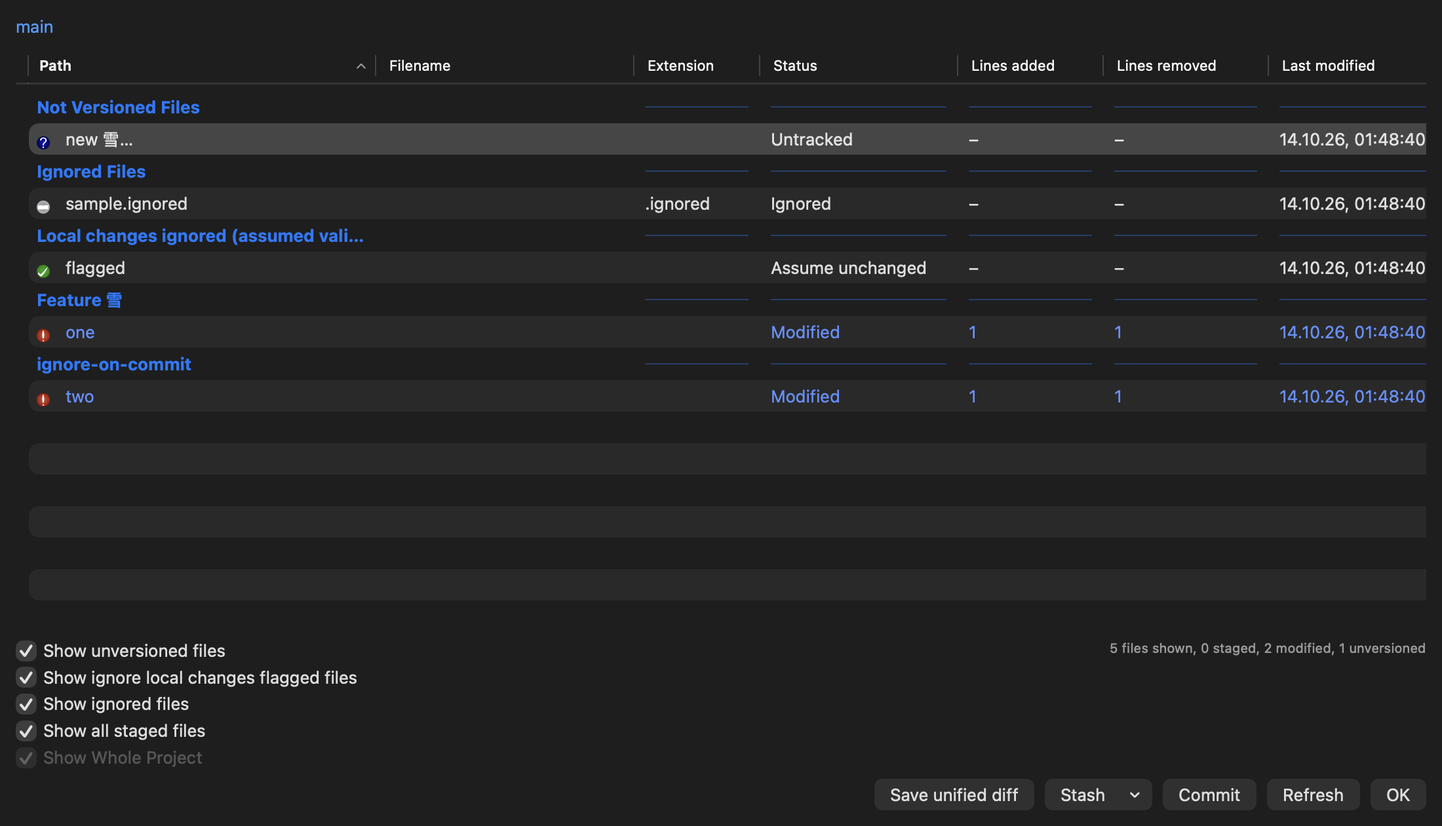
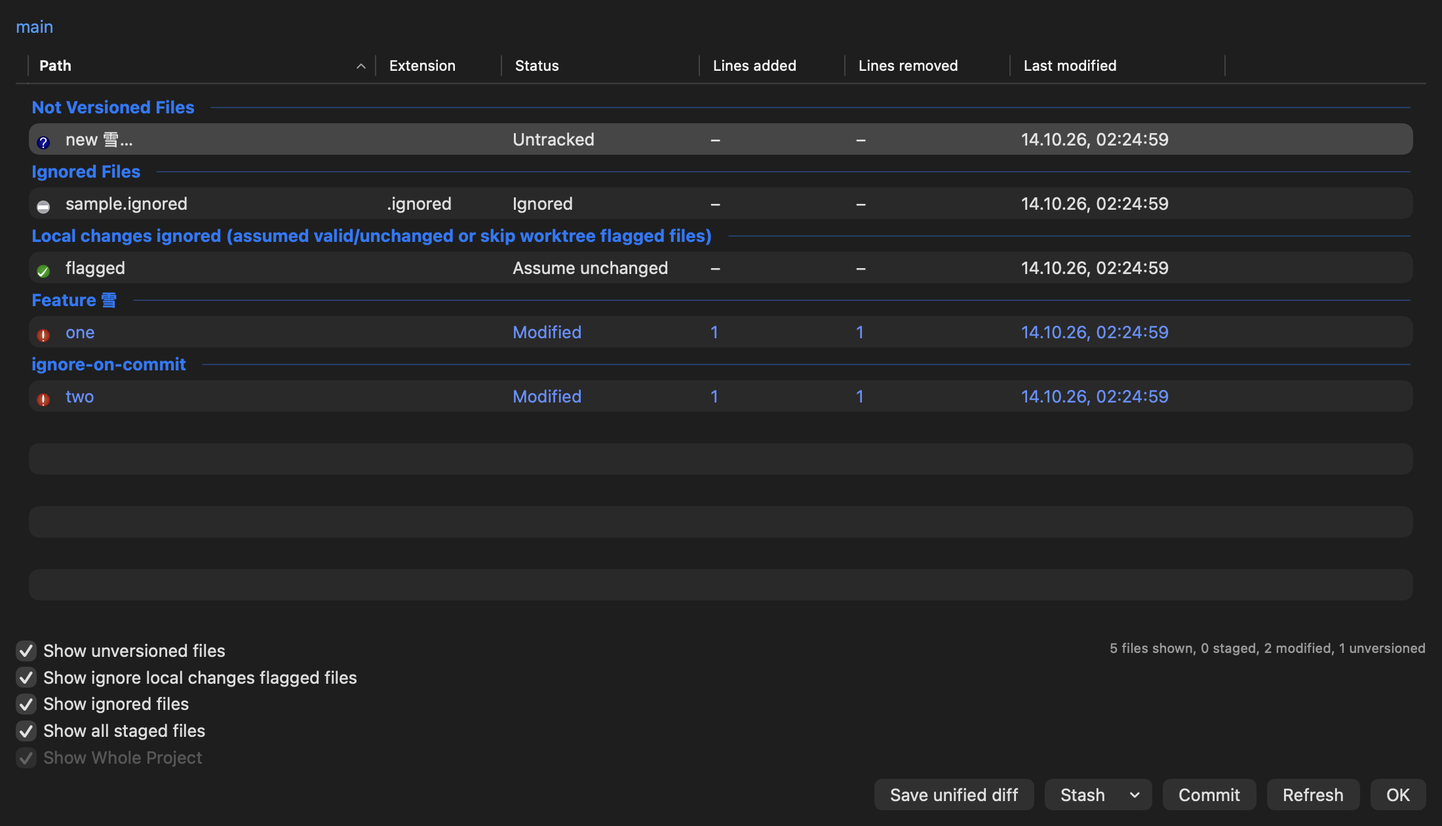
Port full-width file-list groups and recover native column layouts

diff --git a/Sources/TurtleGitMac/CommitFileInteraction.swift b/Sources/TurtleGitMac/CommitFileInteraction.swift
@@ -2,6 +2,45 @@ import AppKit
 import SwiftUI
 import TurtleGitCore
 
+/// Source group headings span the list, independently of text-column widths.
+/// This drawing layer leaves the underlying native row/accessibility and input
+/// implementations intact and never intercepts pointer events.
+final class FileListGroupHeaders: NSView {
+    weak var table: NSTableView?
+    var rows: [StatusListRow] = []
+    var font = NSFont.boldSystemFont(ofSize: NSFont.systemFontSize)
+    override var isFlipped: Bool { true }
+    override func hitTest(_ point: NSPoint) -> NSView? { nil }
+    var headings: [(title: String, rect: NSRect)] {
+        guard let table, table.numberOfRows == rows.count else { return [] }
+        let visible = table.visibleRect
+        return rows.enumerated().compactMap { index, row in
+            guard let group = row.group else { return nil }
+            var rect = table.rect(ofRow: index)
+            rect.origin.x = visible.minX; rect.size.width = visible.width
+            return (group.title, rect)
+        }
+    }
+    override func draw(_ dirtyRect: NSRect) {
+        for heading in headings where heading.rect.intersects(dirtyRect) {
+            NSColor.controlBackgroundColor.setFill(); heading.rect.fill()
+            let paragraph = NSMutableParagraphStyle(); paragraph.lineBreakMode = .byTruncatingTail
+            let attributes: [NSAttributedString.Key: Any] = [.font: font, .foregroundColor: NSColor.controlAccentColor, .paragraphStyle: paragraph]
+            let text = heading.title as NSString
+            let available = heading.rect.insetBy(dx: 12, dy: 0)
+            let measured = text.size(withAttributes: attributes)
+            let rect = NSRect(x: available.minX, y: available.midY - measured.height / 2, width: available.width, height: measured.height)
+            text.draw(in: rect, withAttributes: attributes)
+            let start = available.minX + measured.width + 12
+            if start < available.maxX {
+                NSColor.controlAccentColor.withAlphaComponent(0.35).setFill()
+                NSRect(x: start, y: available.midY, width: available.maxX - start, height: 1).fill()
+            }
+        }
+    }
+    override func viewDidChangeEffectiveAppearance() { super.viewDidChangeEffectiveAppearance(); needsDisplay = true }
+}
+
 /// Observe the public AppKit table underlying a SwiftUI Table without replacing
 /// its selection, accessibility, checkbox or context-menu implementations.
 struct CommitFileInteraction: NSViewRepresentable {
@@ -48,7 +87,7 @@ struct CommitFileInteraction: NSViewRepresentable {
         view.rows = rows; view.focusedPath = $focusedPath
         view.enabled = enabled; view.delete = delete; view.copy = copy; view.copyColumn = copyColumn; view.toggleCheck = toggleCheck
         configureRefresh?(view)
-        DispatchQueue.main.async { [weak view] in view?.configureColumns() }
+        view.scheduleColumnConfiguration()
     }
     static func dismantleNSView(_ view: Probe, coordinator: ()) { view.stopObserving() }
 
@@ -86,6 +125,32 @@ struct CommitFileInteraction: NSViewRepresentable {
         private var desiredColumns: [NSTableColumn] = []
         private var desiredWidths: [ObjectIdentifier: CGFloat] = [:]
         private var layoutObservers: [NSObjectProtocol] = []
+        private var geometryObservers: [NSObjectProtocol] = []
+        private(set) var groupHeaders: FileListGroupHeaders?
+        private var integrationActive = false
+        private var integrationGeneration = UUID()
+        private var configurationScheduled = false
+        func scheduleColumnConfiguration() {
+            guard !configurationScheduled else { return }; configurationScheduled = true
+            let generation = integrationGeneration
+            DispatchQueue.main.async { [weak self] in
+                guard let self, self.integrationGeneration == generation else { return }
+                self.configurationScheduled = false
+                guard self.integrationActive else { return }; self.configureColumns()
+            }
+        }
+        override func viewDidChangeEffectiveAppearance() {
+            super.viewDidChangeEffectiveAppearance(); scheduleColumnConfiguration()
+        }
+        private func configureGroupHeadings(_ table: NSTableView) {
+            guard rows.contains(where: { $0.group != nil }) else { groupHeaders?.removeFromSuperview(); groupHeaders = nil; return }
+            let layer = groupHeaders ?? FileListGroupHeaders(frame: table.bounds)
+            groupHeaders = layer; layer.table = table; layer.rows = rows
+            layer.font = fileListFont.map { NSFontManager.shared.convert($0, toHaveTrait: .boldFontMask) } ?? NSFont.boldSystemFont(ofSize: NSFont.systemFontSize)
+            layer.frame = table.bounds; layer.setAccessibilityElement(false)
+            table.addSubview(layer, positioned: .above, relativeTo: nil)
+            layer.needsDisplay = true
+        }
         private struct ListPosition {
             let origin: NSPoint
             let selectedIndex: Int?
@@ -191,15 +256,22 @@ struct CommitFileInteraction: NSViewRepresentable {
             }
         }
         func configureColumns() {
-            guard let content = window?.contentView else { return }
+            guard integrationActive, let content = window?.contentView else { return }
             func find(_ view: NSView) -> NSTableView? {
                 if let table = view as? NSTableView, contains(table) { return table }
                 return view.subviews.compactMap(find).first
             }
             guard let table = find(content), table.tableColumns.count == nativeColumns.count + leadingColumnCount else { return }
-            if configuredTable !== table {
+            let currentObjects = Set(table.tableColumns.map(ObjectIdentifier.init))
+            let originalObjects = Set(originalColumns.map(ObjectIdentifier.init))
+            if configuredTable !== table || currentObjects != originalObjects || layoutObservers.isEmpty {
+                for observer in geometryObservers { NotificationCenter.default.removeObserver(observer) }; geometryObservers = []
+                groupHeaders?.removeFromSuperview(); groupHeaders = nil
                 configuredTable = table; originalColumns = table.tableColumns
-                columnDefinitions = Dictionary(uniqueKeysWithValues: zip(table.tableColumns.dropFirst(leadingColumnCount), nativeColumns).map { (ObjectIdentifier($0.0), $0.1) })
+                columnDefinitions = Dictionary(uniqueKeysWithValues: zip(table.tableColumns.dropFirst(leadingColumnCount), nativeColumns).map { column, fallback in
+                    let named = StatusListColumn(rawValue: column.headerCell.stringValue)
+                    return (ObjectIdentifier(column), named.flatMap { nativeColumns.contains($0) ? $0 : nil } ?? fallback)
+                })
                 originalWidths = Dictionary(uniqueKeysWithValues: table.tableColumns.map { (ObjectIdentifier($0), $0.width) })
                 desiredColumns = originalColumns; desiredWidths = originalWidths
                 for observer in layoutObservers { NotificationCenter.default.removeObserver(observer) }
@@ -232,6 +304,18 @@ struct CommitFileInteraction: NSViewRepresentable {
             }
             applyNativeColumnLayout()
             table.headerView?.menu = columnMenu()
+            configureGroupHeadings(table)
+            if geometryObservers.isEmpty {
+                table.postsFrameChangedNotifications = true
+                var observations: [(Notification.Name, AnyObject)] = [(NSView.frameDidChangeNotification, table)]
+                if let clip = table.enclosingScrollView?.contentView { clip.postsBoundsChangedNotifications = true; observations.append((NSView.boundsDidChangeNotification, clip)) }
+                if let window { observations.append((NSWindow.didResizeNotification, window)) }
+                geometryObservers = observations.map { name, object in
+                    NotificationCenter.default.addObserver(forName: name, object: object, queue: .main) { [weak self] _ in
+                        guard let self, !self.adjustingLayout else { return }; self.scheduleColumnConfiguration()
+                    }
+                }
+            }
         }
         func columnDefinition(atNativeIndex index: Int) -> StatusListColumn? {
             guard let table = configuredTable, table.tableColumns.indices.contains(index) else { return nil }
@@ -288,6 +372,7 @@ struct CommitFileInteraction: NSViewRepresentable {
         override func viewDidMoveToWindow() {
             super.viewDidMoveToWindow(); stopObserving()
             guard window != nil else { return }
+            integrationActive = true; scheduleColumnConfiguration()
             monitor = NSEvent.addLocalMonitorForEvents(matching: [.leftMouseDown, .leftMouseDragged, .leftMouseUp, .rightMouseDown, .keyDown]) { [weak self] event in
                 guard let self else { return event }
                 return self.observe(event)
@@ -298,6 +383,9 @@ struct CommitFileInteraction: NSViewRepresentable {
             }
         }
         func stopObserving() {
+            integrationActive = false; integrationGeneration = UUID(); configurationScheduled = false
+            for observer in geometryObservers { NotificationCenter.default.removeObserver(observer) }; geometryObservers = []
+            groupHeaders?.removeFromSuperview(); groupHeaders = nil
             cancelListPosition()
             if let monitor { NSEvent.removeMonitor(monitor) }
             monitor = nil

diff --git a/docs/qa/file-list-layout-native-2026-10-14.swift b/docs/qa/file-list-layout-native-2026-10-14.swift
@@ -1,0 +1,96 @@
+import AppKit
+import TurtleGitCore
+
+@main struct FileListLayoutVerification {
+    final class TableSource: NSObject, NSTableViewDataSource {
+        var count = 0
+        func numberOfRows(in tableView: NSTableView) -> Int { count }
+        func tableView(_ tableView: NSTableView, objectValueFor tableColumn: NSTableColumn?, row: Int) -> Any? { row }
+    }
+    struct Failure: Error, LocalizedError { let message: String; var errorDescription: String? { message } }
+    static func require(_ value: Bool, _ message: String) throws { if !value { throw Failure(message: message) } }
+    @MainActor static func wait(_ ready: () -> Bool) async throws {
+        for _ in 0..<2000 { if ready() { return }; try await Task.sleep(nanoseconds: 10_000_000) }
+        throw Failure(message: "File-list layout timeout")
+    }
+    @MainActor static func views(_ view: NSView) -> [NSView] { [view] + view.subviews.flatMap(views) }
+    @MainActor static func main() async {
+        do { try await verify() } catch { fputs("File-list layout failed: \(error)\n", stderr); exit(1) }
+    }
+    @MainActor static func verify() async throws {
+        let root = URL(fileURLWithPath: CommandLine.arguments[1]), repo = GitRepository(root: root, executable: URL(fileURLWithPath: CommandLine.arguments[2]))
+        _ = try await repo.run(["init", "-b", "main"])
+        for (key, value) in [("user.name", "QA"), ("user.email", "qa@example.invalid"), ("commit.gpgsign", "false"), ("core.hooksPath", "/dev/null")] { _ = try await repo.run(["config", key, value]) }
+        try Data("base\n".utf8).write(to: root.appendingPathComponent("tracked")); try await repo.stage(["tracked"]); _ = try await repo.commit(message: "base")
+        try Data("changed\n".utf8).write(to: root.appendingPathComponent("tracked"))
+        for i in 0..<50 { try Data("new\n".utf8).write(to: root.appendingPathComponent("new-\(i)")) }
+        let suite = "TurtleGit.FileListLayout." + UUID().uuidString, prefs = UserDefaults(suiteName: suite)!
+        defer { prefs.removePersistentDomain(forName: suite) }
+        let owner = StatusWindowController(repository: repo, access: nil, defaults: prefs), model = owner.model
+        defer { model.invalidate(); owner.close() }
+        model.reload(); try await wait { !model.busy && StatusWindowModel.activeOperations == 0 }
+        try await wait { views(owner.window!.contentView!).contains { $0 is CommitFileInteraction.Probe } }
+        let probe = views(owner.window!.contentView!).compactMap { $0 as? CommitFileInteraction.Probe }.first!
+        let table = views(owner.window!.contentView!).compactMap { $0 as? NSTableView }.first!
+        try await wait { probe.groupHeaders?.headings.count == 2 && table.tableColumns.filter { !$0.isHidden }.count == 6 }
+        let heading = probe.groupHeaders!.headings.first!
+        try require(heading.rect.width == table.visibleRect.width && heading.rect.width > table.tableColumns.first!.width, "Group title is constrained to first column")
+        try require(probe.groupHeaders!.hitTest(.zero) == nil, "Group drawing intercepts pointer input")
+        let originalRows = probe.rows, selection = model.selection
+        for appearance in [NSAppearance.Name.darkAqua, .aqua] {
+            owner.window!.appearance = NSAppearance(named: appearance)
+            try await Task.sleep(nanoseconds: 50_000_000)
+            probe.configureColumns()
+            try require(table.tableColumns.filter { !$0.isHidden }.count == 6 && probe.rows == originalRows && model.selection == selection, "Appearance changed layout or file identities")
+        }
+        let order = [StatusListColumn.status, .path] + StatusListColumn.allCases.filter { ![.status, .path].contains($0) }
+        _ = model.saveColumnLayout(order: order, widths: [.path: 333])
+        try await wait { probe.columnDefinition(atNativeIndex: 0) == .status }
+        let baseline = prefs.dictionaryRepresentation()
+        // SwiftUI owns its NSOutlineView column/data-source objects. Exercise
+        // replacement policy on an ordinary native table, without mutating
+        // SwiftUI's private hierarchy or invalidating its continuations.
+        let replacementWindow = NSWindow(contentRect: NSRect(x: 0, y: 0, width: 800, height: 300), styleMask: [.titled, .closable], backing: .buffered, defer: false)
+        replacementWindow.isReleasedWhenClosed = false
+        let host = NSView(frame: NSRect(x: 0, y: 0, width: 800, height: 300)), scroll = NSScrollView(frame: NSRect(x: 0, y: 0, width: 800, height: 300)), replacementTable = NSTableView(frame: NSRect(x: 0, y: 0, width: 800, height: 1200))
+        let data = TableSource(); data.count = originalRows.count; replacementTable.dataSource = data
+        replacementTable.headerView = NSTableHeaderView()
+        for definition in StatusListColumn.allCases { let column = NSTableColumn(identifier: NSUserInterfaceItemIdentifier(definition.rawValue)); column.title = definition.rawValue; column.minWidth = 40; column.maxWidth = 1000; column.width = 100; replacementTable.addTableColumn(column) }
+        scroll.documentView = replacementTable; host.addSubview(scroll)
+        let replacementProbe = CommitFileInteraction.Probe(frame: host.bounds)
+        replacementProbe.leadingColumnCount = 0; replacementProbe.rows = originalRows; replacementProbe.visibleColumns = Set(model.visibleColumns)
+        replacementProbe.savedOrder = order; replacementProbe.savedWidths = [.path: 333]; replacementProbe.enabled = true
+        host.addSubview(replacementProbe); replacementWindow.contentView = host; replacementTable.reloadData(); replacementProbe.configureColumns()
+        defer { replacementProbe.stopObserving(); replacementWindow.close(); withExtendedLifetime(data) {} }
+        let originals = replacementTable.tableColumns
+        for original in originals { replacementTable.removeTableColumn(original) }
+        for original in originals {
+            let replacement = NSTableColumn(identifier: original.identifier); replacement.title = original.headerCell.stringValue
+            replacement.minWidth = original.minWidth; replacement.maxWidth = original.maxWidth; replacement.width = original.width
+            replacementTable.addTableColumn(replacement)
+        }
+        replacementProbe.configureColumns()
+        try require(replacementProbe.columnDefinition(atNativeIndex: 0) == .status && replacementProbe.columnDefinition(atNativeIndex: 1) == .path, "Replaced columns lost semantic mapping or saved order")
+        let path = replacementTable.tableColumns.first { $0.headerCell.stringValue == "Path" }!
+        try require(abs(path.width - 333) < 1 && replacementTable.tableColumns.filter { !$0.isHidden }.count == 6 && replacementTable.tableColumns.first { $0.headerCell.stringValue == "Filename" }!.isHidden, "Replaced columns lost adjusted width/visibility")
+        try require(prefs.dictionaryRepresentation() as NSDictionary == baseline as NSDictionary, "Automatic repair persisted a synthetic user layout")
+        let clip = table.enclosingScrollView!.contentView
+        clip.scroll(to: NSPoint(x: 10, y: 200)); table.enclosingScrollView!.reflectScrolledClipView(clip)
+        probe.configureColumns()
+        try require(probe.groupHeaders!.headings.allSatisfy { abs($0.rect.minX - table.visibleRect.minX) < 1 }, "Group heading does not follow horizontal viewport")
+        let commit = CommitWindowController(repository: repo, access: nil, defaults: prefs)
+        defer { commit.model.invalidateForClose(); commit.close() }
+        commit.model.reload()
+        try await wait { !commit.model.busy && views(commit.window!.contentView!).contains { $0 is CommitFileInteraction.Probe } }
+        let commitProbe = views(commit.window!.contentView!).compactMap { $0 as? CommitFileInteraction.Probe }.first!
+        try await wait { commitProbe.groupHeaders?.headings.isEmpty == false }
+        try require(commitProbe.leadingColumnCount == 1 && commitProbe.groupHeaders!.headings.allSatisfy { $0.rect.width > 500 }, "Commit checkbox table lost full-width group headings")
+        commit.model.invalidateForClose(); commit.close()
+        let layer = probe.groupHeaders!
+        probe.stopObserving(); probe.scheduleColumnConfiguration()
+        try await Task.sleep(nanoseconds: 50_000_000)
+        try require(layer.superview == nil && probe.groupHeaders == nil, "Retired queued configuration reinstalled group layer")
+        owner.close()
+        print("File-list layout: full-width group geometry, pointer passthrough, appearance identities, simulated replaced-column remapping/order/width/visibility, no preference writes, viewport anchoring and retired observer teardown passed. Private native window closed.")
+    }
+}

diff --git a/docs/site/index.html b/docs/site/index.html
@@ -125,8 +125,8 @@
     <figure><a href="assets/staging.png"><img src="assets/staging.png" alt="Native Commit window with Enable staging area selected, one mixed checkbox for a partly staged file, Stage and Unstage controls, and separate staged-diff selection." width="2000" height="1584" loading="lazy"></a><figcaption>Staging mode retains the file list and displays partial index contents with a mixed checkbox. Its native commit was verified to preserve later unstaged edits. Partial staging is now available in the attached window shown below.</figcaption></figure>
     <figure><a href="assets/partial-staging.png"><img src="assets/partial-staging.png" alt="Native Commit dialog and attached right-hand partial staging patch window, with a changed line selected, native Find bar, Hide Staging button and line and hunk staging actions enabled." width="3200" height="1584" loading="lazy"></a><figcaption>Actual native right-hand patch window with Find. Line and hunk staging and line unstaging preserve other index changes and working-tree edits. Search and native Save As were also exercised on this disposable repository.</figcaption></figure>
     <h2>Review repository status</h2>
-    <figure><a href="assets/working-tree-groups-light.png"><img src="assets/working-tree-groups-light.png" alt="Native Working Tree content in light appearance with status categories, named changelist and ignore-on-commit groups." width="2200" height="1260" loading="lazy"></a><figcaption>Native Working Tree content render: saved changelists, status categories and original row artwork. Create/move/remove and grouped clipboard/keyboard slots passed with both Git engines. Long headings and offscreen column rendering remain partial; this is not whole-window or physical visual acceptance. <a href="@@REPOSITORY_URL@@/blob/main/docs/qa/working-tree-groups-2026-10-14.json">Results and rendering limits</a>.</figcaption></figure>
-    <figure><a href="assets/working-tree-groups-dark.png"><img src="assets/working-tree-groups-dark.png" alt="Native Working Tree content in dark appearance with status categories, named changelist and ignore-on-commit groups." width="2200" height="1260" loading="lazy"></a><figcaption>Native Working Tree content render: saved changelists, status categories and original row artwork. Create/move/remove and grouped clipboard/keyboard slots passed with both Git engines. Long headings and offscreen column rendering remain partial; this is not whole-window or physical visual acceptance. <a href="@@REPOSITORY_URL@@/blob/main/docs/qa/working-tree-groups-2026-10-14.json">Results and rendering limits</a>.</figcaption></figure>
+    <figure><a href="assets/working-tree-groups-light.png"><img src="assets/working-tree-groups-light.png" alt="Native Working Tree content in light appearance with status categories, named changelist and ignore-on-commit groups." width="2200" height="1260" loading="lazy"></a><figcaption>Native Working Tree content render: saved changelists, status categories and original row artwork. Create/move/remove and grouped clipboard/keyboard slots passed with both Git engines. Full-width headings and the intended saved columns are shown in these refreshed light/dark renders. Whole-window, physical input and signed acceptance remain open. <a href="@@REPOSITORY_URL@@/blob/main/docs/qa/file-list-layout-2026-10-14.json">Results and rendering limits</a>.</figcaption></figure>
+    <figure><a href="assets/working-tree-groups-dark.png"><img src="assets/working-tree-groups-dark.png" alt="Native Working Tree content in dark appearance with status categories, named changelist and ignore-on-commit groups." width="2200" height="1260" loading="lazy"></a><figcaption>Native Working Tree content render: saved changelists, status categories and original row artwork. Create/move/remove and grouped clipboard/keyboard slots passed with both Git engines. Full-width headings and the intended saved columns are shown in these refreshed light/dark renders. Whole-window, physical input and signed acceptance remain open. <a href="@@REPOSITORY_URL@@/blob/main/docs/qa/file-list-layout-2026-10-14.json">Results and rendering limits</a>.</figcaption></figure>
     <figure><a href="assets/status.png"><img src="assets/status.png" alt="Standalone native Working Tree dialog with branch, sortable path/status/statistics/date columns, ignored and index-flagged files, filter checkboxes and bottom action buttons." width="2200" height="1324" loading="lazy"></a><figcaption>Actual standalone Working Tree window. Native filter, stage/unstage, sorting, comparison and unified-diff export checks passed. Full context-menu and advanced-option parity remains in progress.</figcaption></figure>
     <h2>Switch branches, tags or commits</h2>
     <figure><a href="assets/switch-checkout.png"><img src="assets/switch-checkout.png" alt="Native Switch/Checkout dialog with aligned Branch, Tag and Commit selectors, new branch, force, merge, Track and branch override controls." width="1240" height="834" loading="lazy"></a><figcaption>Actual native Switch/Checkout window. Native branch creation and switching back preserved staged and unstaged patches byte-for-byte. Complete reference/log choosers and broader UI verification remain in progress.</figcaption></figure>

diff --git a/scripts/test-native-reference-batch.py b/scripts/test-native-reference-batch.py
@@ -81,6 +81,7 @@ CASES = {
     'svn-workflow': 'SVNWorkflowVerification',
     'working-tree-lfs': 'WorkingTreeLFSVerification',
     'submodule-handoffs': 'SubmoduleHandoffsVerification',
+    'file-list-layout': 'FileListLayoutVerification',
     'working-tree-groups': 'WorkingTreeGroupsVerification',
     'working-tree-file-menu': 'WorkingTreeFileMenuVerification',
     'working-tree-lifecycle': 'WorkingTreeLifecycleVerification',
@@ -122,7 +123,7 @@ with ExitStack() as fixture_lifetimes, tempfile.TemporaryDirectory(prefix='Turtl
     sources = []
     for case in compiled_cases:
         source = directory / (case + '.swift')
-        fixture = root / ('docs/qa/log-history-stream-native-2026-10-14.swift' if case == 'log-history-stream' else 'docs/qa/submodule-handoffs-native-2026-10-14.swift' if case == 'submodule-handoffs' else 'docs/qa/working-tree-groups-native-2026-10-14.swift' if case == 'working-tree-groups' else 'docs/qa/working-tree-file-menu-native-2026-10-14.swift' if case == 'working-tree-file-menu' else 'docs/qa/lfs-locks-native-2026-10-08.swift' if case == 'working-tree-lfs' else 'docs/qa/working-tree-lifecycle-native-2026-10-14.swift' if case == 'working-tree-lifecycle' else 'docs/qa/ssh-key-import-native-2026-10-14.swift' if case == 'ssh-key-import' else 'docs/qa/worktree-family-native-2026-10-14.swift' if case == 'worktree-family' else 'docs/qa/revision-graph-window-native-2026-10-10.swift' if case == 'revision-graph' else 'docs/qa/settings-family-native-2026-10-13.swift' if case == 'settings-family' else 'docs/qa/ssh-coordinator-native-2026-10-09.swift' if case == 'ssh-coordinator' else 'docs/qa/rebase-row-drag-native-2026-10-13.swift' if case == 'rebase-row-drag' else 'docs/qa/rebase-conditional-native-2026-10-13.swift' if case == 'rebase-conditional' else 'docs/qa/rebase-columns-native-2026-10-13.swift' if case == 'rebase-columns' else 'docs/qa/commit-preferences-native-2026-10-13.swift' if case == 'commit-preferences' else 'docs/qa/log-metadata-native-2026-10-14.swift' if case == 'log-metadata' else 'docs/qa/log-column-layout-native-2026-10-13.swift' if case == 'log-column-layout' else 'docs/qa/reflog-reference-deletion-native-2026-10-13.swift' if case == 'reflog-reference-deletion' else 'docs/qa/reflog-advanced-native-2026-10-13.swift' if case == 'reflog-advanced' else 'docs/qa/reflog-notes-patch-native-2026-10-13.swift' if case == 'reflog-notes-patch' else 'docs/qa/reflog-operations-native-2026-10-13.swift' if case == 'reflog-operations' else 'docs/qa/reflog-table-native-2026-10-13.swift' if case == 'reflog-table' else 'docs/qa/three-pane-endings-native-2026-10-08.swift' if case == 'merge-source' else 'docs/qa/merge-clipboard-native-2026-10-13.swift' if case == 'merge-clipboard' else 'docs/qa/ignore-workflow-native-2026-10-13.swift' if case == 'ignore-workflow' else 'docs/qa/version-combo-native-2026-10-13.swift' if case == 'version-combo' else 'docs/qa/switch-pickers-native-2026-10-09.swift' if case == 'switch-pickers' else 'docs/qa/creation-pickers-native-2026-10-09.swift' if case == 'creation-pickers' else 'docs/qa/add-dialog-native-2026-10-13.swift' if case == 'add-dialog' else 'docs/qa/add-drop-native-2026-10-13.swift' if case == 'add-drop' else 'docs/qa/commit-drop-native-2026-10-13.swift' if case == 'commit-drop' else 'docs/qa/input-hosts-native-2026-10-13.swift' if case == 'input-hosts' else 'docs/qa/input-dialogs-native-2026-10-13.swift' if case == 'input-dialogs' else 'docs/qa/fetch-history-native-2026-10-07.swift' if case == 'fetch-history' else 'docs/qa/remote-dialogs-native-2026-10-13.swift' if case == 'remote-dialogs' else 'docs/qa/file-patches-native-2026-10-13.swift' if case == 'file-patches' else 'docs/qa/bisect-lifecycle-native-2026-10-13.swift' if case == 'bisect-lifecycle' else 'docs/qa/message-spelling-native-2026-10-13.swift' if case == 'message-spelling' else 'docs/qa/git-askpass-native-2026-10-13.swift' if case == 'git-askpass' else 'docs/qa/patch-review-lifecycle-native-2026-10-13.swift' if case == 'patch-review-lifecycle' else 'docs/qa/ssh-authentication-native-2026-10-13.swift' if case == 'ssh-authentication' else 'docs/qa/git-properties-native-2026-10-13.swift' if case == 'git-properties' else 'docs/qa/partial-patch-native-2026-10-13.swift' if case == 'partial-patch' else 'docs/qa/finder-service-grants-native-2026-10-13.swift' if case == 'finder-service-grants' else 'docs/qa/finder-service-grant-worker-native-2026-10-13.swift' if case == 'finder-service-grant-worker' else 'docs/qa/finder-watches-native-2026-10-13.swift' if case == 'finder-watches' else 'docs/qa/finder-watches-capture-native-2026-10-13.swift' if case == 'finder-watches-captures' else 'docs/qa/finder-publication-native-2026-10-13.swift' if case == 'finder-publication' else 'docs/qa/finder-publication-worker-native-2026-10-13.swift' if case == 'finder-publication-worker' else 'docs/qa/finder-events-native-2026-10-13.swift' if case == 'finder-events' else 'docs/qa/repository-browser-table-capture-native-2026-10-13.swift' if case == 'repository-browser-table-captures' else 'docs/qa/repository-browser-table-native-2026-10-13.swift' if case == 'repository-browser-table' else 'docs/qa/repository-browser-lifecycle-native-2026-10-13.swift' if case == 'repository-browser' else 'docs/qa/blame-wrap-native-2026-10-13.swift' if case == 'blame-wrap' else 'docs/qa/blame-wrap-capture-native-2026-10-13.swift' if case == 'blame-wrap-captures' else 'docs/qa/blame-lexilla-native-2026-10-13.swift' if case == 'blame-lexilla' else 'docs/qa/blame-menu-native-2026-10-13.swift' if case == 'blame-menus' else 'docs/qa/blame-file-open-native-2026-10-13.swift' if case == 'blame-file-open' else 'docs/qa/blame-find-native-2026-10-13.swift' if case == 'blame-find' else 'docs/qa/blame-source-editor-native-2026-10-13.swift' if case == 'blame-source' else 'docs/qa/blame-source-capture-native-2026-10-13.swift' if case == 'blame-captures' else 'docs/qa/sync-hooks-native-2026-10-14.swift' if case == 'sync-hooks' else 'docs/qa/stash-restore-native-2026-10-08.swift' if case == 'stash-restore' else 'docs/qa/utility-captures-2026-10-12.swift' if case == 'utility-captures' else 'docs/qa/client-hooks-native-2026-10-12.swift' if case == 'client-hooks' else 'docs/qa/autotext-tester-native-2026-10-12.swift' if case == 'autotext-tester' else 'docs/qa/issue-tracker-captures-2026-10-12.swift' if case == 'issue-captures' else 'docs/qa/issue-tracker-settings-native-2026-10-12.swift' if case == 'issue-tracker-settings' else 'docs/qa/issue-regex-tester-native-2026-10-12.swift' if case == 'issue-regex-tester' else 'docs/qa/svn-native-2026-10-12.swift' if case == 'svn-workflow' else 'docs/qa/commit-progress-native-2026-10-08.swift' if case == 'commit-progress' else 'docs/qa/email-settings-native-2026-10-10.swift' if case == 'email-settings' else 'docs/qa/overlay-settings-native-2026-10-12.swift' if case == 'overlay-settings' else 'docs/qa/external-merge-lifecycle-native-2026-10-12.swift' if case == 'external-merge-lifecycle' else 'docs/qa/tool-settings-native-2026-10-12.swift' if case == 'tool-settings' else 'docs/qa/credential-settings-native-2026-10-12.swift' if case == 'credential-settings' else 'docs/qa/network-settings-native-2026-10-12.swift' if case == 'network-settings' else 'docs/qa/merge-pickers-native-2026-10-09.swift' if case == 'merge-pickers' else 'docs/qa/reference-' + case + '-native-2026-10-09.swift')
+        fixture = root / ('docs/qa/file-list-layout-native-2026-10-14.swift' if case == 'file-list-layout' else 'docs/qa/log-history-stream-native-2026-10-14.swift' if case == 'log-history-stream' else 'docs/qa/submodule-handoffs-native-2026-10-14.swift' if case == 'submodule-handoffs' else 'docs/qa/working-tree-groups-native-2026-10-14.swift' if case == 'working-tree-groups' else 'docs/qa/working-tree-file-menu-native-2026-10-14.swift' if case == 'working-tree-file-menu' else 'docs/qa/lfs-locks-native-2026-10-08.swift' if case == 'working-tree-lfs' else 'docs/qa/working-tree-lifecycle-native-2026-10-14.swift' if case == 'working-tree-lifecycle' else 'docs/qa/ssh-key-import-native-2026-10-14.swift' if case == 'ssh-key-import' else 'docs/qa/worktree-family-native-2026-10-14.swift' if case == 'worktree-family' else 'docs/qa/revision-graph-window-native-2026-10-10.swift' if case == 'revision-graph' else 'docs/qa/settings-family-native-2026-10-13.swift' if case == 'settings-family' else 'docs/qa/ssh-coordinator-native-2026-10-09.swift' if case == 'ssh-coordinator' else 'docs/qa/rebase-row-drag-native-2026-10-13.swift' if case == 'rebase-row-drag' else 'docs/qa/rebase-conditional-native-2026-10-13.swift' if case == 'rebase-conditional' else 'docs/qa/rebase-columns-native-2026-10-13.swift' if case == 'rebase-columns' else 'docs/qa/commit-preferences-native-2026-10-13.swift' if case == 'commit-preferences' else 'docs/qa/log-metadata-native-2026-10-14.swift' if case == 'log-metadata' else 'docs/qa/log-column-layout-native-2026-10-13.swift' if case == 'log-column-layout' else 'docs/qa/reflog-reference-deletion-native-2026-10-13.swift' if case == 'reflog-reference-deletion' else 'docs/qa/reflog-advanced-native-2026-10-13.swift' if case == 'reflog-advanced' else 'docs/qa/reflog-notes-patch-native-2026-10-13.swift' if case == 'reflog-notes-patch' else 'docs/qa/reflog-operations-native-2026-10-13.swift' if case == 'reflog-operations' else 'docs/qa/reflog-table-native-2026-10-13.swift' if case == 'reflog-table' else 'docs/qa/three-pane-endings-native-2026-10-08.swift' if case == 'merge-source' else 'docs/qa/merge-clipboard-native-2026-10-13.swift' if case == 'merge-clipboard' else 'docs/qa/ignore-workflow-native-2026-10-13.swift' if case == 'ignore-workflow' else 'docs/qa/version-combo-native-2026-10-13.swift' if case == 'version-combo' else 'docs/qa/switch-pickers-native-2026-10-09.swift' if case == 'switch-pickers' else 'docs/qa/creation-pickers-native-2026-10-09.swift' if case == 'creation-pickers' else 'docs/qa/add-dialog-native-2026-10-13.swift' if case == 'add-dialog' else 'docs/qa/add-drop-native-2026-10-13.swift' if case == 'add-drop' else 'docs/qa/commit-drop-native-2026-10-13.swift' if case == 'commit-drop' else 'docs/qa/input-hosts-native-2026-10-13.swift' if case == 'input-hosts' else 'docs/qa/input-dialogs-native-2026-10-13.swift' if case == 'input-dialogs' else 'docs/qa/fetch-history-native-2026-10-07.swift' if case == 'fetch-history' else 'docs/qa/remote-dialogs-native-2026-10-13.swift' if case == 'remote-dialogs' else 'docs/qa/file-patches-native-2026-10-13.swift' if case == 'file-patches' else 'docs/qa/bisect-lifecycle-native-2026-10-13.swift' if case == 'bisect-lifecycle' else 'docs/qa/message-spelling-native-2026-10-13.swift' if case == 'message-spelling' else 'docs/qa/git-askpass-native-2026-10-13.swift' if case == 'git-askpass' else 'docs/qa/patch-review-lifecycle-native-2026-10-13.swift' if case == 'patch-review-lifecycle' else 'docs/qa/ssh-authentication-native-2026-10-13.swift' if case == 'ssh-authentication' else 'docs/qa/git-properties-native-2026-10-13.swift' if case == 'git-properties' else 'docs/qa/partial-patch-native-2026-10-13.swift' if case == 'partial-patch' else 'docs/qa/finder-service-grants-native-2026-10-13.swift' if case == 'finder-service-grants' else 'docs/qa/finder-service-grant-worker-native-2026-10-13.swift' if case == 'finder-service-grant-worker' else 'docs/qa/finder-watches-native-2026-10-13.swift' if case == 'finder-watches' else 'docs/qa/finder-watches-capture-native-2026-10-13.swift' if case == 'finder-watches-captures' else 'docs/qa/finder-publication-native-2026-10-13.swift' if case == 'finder-publication' else 'docs/qa/finder-publication-worker-native-2026-10-13.swift' if case == 'finder-publication-worker' else 'docs/qa/finder-events-native-2026-10-13.swift' if case == 'finder-events' else 'docs/qa/repository-browser-table-capture-native-2026-10-13.swift' if case == 'repository-browser-table-captures' else 'docs/qa/repository-browser-table-native-2026-10-13.swift' if case == 'repository-browser-table' else 'docs/qa/repository-browser-lifecycle-native-2026-10-13.swift' if case == 'repository-browser' else 'docs/qa/blame-wrap-native-2026-10-13.swift' if case == 'blame-wrap' else 'docs/qa/blame-wrap-capture-native-2026-10-13.swift' if case == 'blame-wrap-captures' else 'docs/qa/blame-lexilla-native-2026-10-13.swift' if case == 'blame-lexilla' else 'docs/qa/blame-menu-native-2026-10-13.swift' if case == 'blame-menus' else 'docs/qa/blame-file-open-native-2026-10-13.swift' if case == 'blame-file-open' else 'docs/qa/blame-find-native-2026-10-13.swift' if case == 'blame-find' else 'docs/qa/blame-source-editor-native-2026-10-13.swift' if case == 'blame-source' else 'docs/qa/blame-source-capture-native-2026-10-13.swift' if case == 'blame-captures' else 'docs/qa/sync-hooks-native-2026-10-14.swift' if case == 'sync-hooks' else 'docs/qa/stash-restore-native-2026-10-08.swift' if case == 'stash-restore' else 'docs/qa/utility-captures-2026-10-12.swift' if case == 'utility-captures' else 'docs/qa/client-hooks-native-2026-10-12.swift' if case == 'client-hooks' else 'docs/qa/autotext-tester-native-2026-10-12.swift' if case == 'autotext-tester' else 'docs/qa/issue-tracker-captures-2026-10-12.swift' if case == 'issue-captures' else 'docs/qa/issue-tracker-settings-native-2026-10-12.swift' if case == 'issue-tracker-settings' else 'docs/qa/issue-regex-tester-native-2026-10-12.swift' if case == 'issue-regex-tester' else 'docs/qa/svn-native-2026-10-12.swift' if case == 'svn-workflow' else 'docs/qa/commit-progress-native-2026-10-08.swift' if case == 'commit-progress' else 'docs/qa/email-settings-native-2026-10-10.swift' if case == 'email-settings' else 'docs/qa/overlay-settings-native-2026-10-12.swift' if case == 'overlay-settings' else 'docs/qa/external-merge-lifecycle-native-2026-10-12.swift' if case == 'external-merge-lifecycle' else 'docs/qa/tool-settings-native-2026-10-12.swift' if case == 'tool-settings' else 'docs/qa/credential-settings-native-2026-10-12.swift' if case == 'credential-settings' else 'docs/qa/network-settings-native-2026-10-12.swift' if case == 'network-settings' else 'docs/qa/merge-pickers-native-2026-10-09.swift' if case == 'merge-pickers' else 'docs/qa/reference-' + case + '-native-2026-10-09.swift')
         source.write_text('@testable import TurtleGitMac\n' + fixture.read_text().replace('@main struct', 'struct', 1))
         if case == 'working-tree-lfs':
             source.write_text(source.read_text() + '\nstruct WorkingTreeLFSVerification {\n    @MainActor static func main() async {\n        do { try await LFSLocksVerification.main() }\n        catch { fputs("Working Tree LFS regression failed: \(error)\\n", stderr); exit(1) }\n    }\n}\n')

diff --git a/docs/STATUS-PARITY.md b/docs/STATUS-PARITY.md
@@ -216,9 +216,9 @@ receivers passed with system and bundled Git. A capture-only correction supplied
 the native background; one Groups receiver regenerated inspected light/dark
 content renders without repeating app/Core/LFS validation. All seven receivers
 were reaped. See [results and capture limits](qa/working-tree-groups-2026-10-14.json).
-Long group headings remain clipped by the first column; the offscreen captures
-can show an optional header without its cells, so full-width group headings and
-complete column/whole-window visual acceptance remain unfinished. Physical header gestures/name
+The subsequent shared-layout checkpoint below repairs first-column heading
+clipping and the observed optional-header discrepancy. Complete whole-window
+visual acceptance remains unfinished. Physical header gestures/name
 dialog appearance, full source group-state accessibility and signed worktree
 access remain open. This does not certify complete status-list parity.
 
@@ -243,3 +243,27 @@ The connected Submodule Diff/handoff batch passed twelve Core checks and four
 grouped native receivers with both Git engines. See [results and limits](qa/submodule-handoffs-2026-10-14.json).
 Full marked-row/directory menu variants and signed child scope acceptance remain
 open; these new routes do not complete all status-list behavior.
+
+## Shared file-list layout batch — October 14, 2026
+
+Commit and Working Tree group headers now draw across the visible native table
+width, with a colored heading and trailing rule independent of the Path column.
+The AppKit drawing layer does not intercept pointer events or create duplicate
+accessibility elements; the underlying group row retains its full accessible
+label and its existing context/selection behavior. Keyboard/clipboard mapping
+still uses the same group/file slots. Horizontal scrolling, resize and appearance
+changes update the drawing geometry through owned, coalesced notifications.
+
+The shared column integration now detects replaced column objects within the
+same table, resolves their existing semantic headings and reapplies saved order,
+width and visibility. It does not record automatic repair as a user layout edit.
+This also applies to the LFS Locks table. Deferred configuration and geometry
+observers retire with their probe and cannot reinstall a drawing layer afterward.
+
+Debug and six grouped native layout/groups/LFS receivers passed with both Git
+engines. Two unsupported column-surgery fixtures were stopped/reaped; the final
+ordinary-table data-source correction was rechecked only on system Git. All nine
+owned receivers were reaped. Refreshed light/dark content renders were inspected
+and show full titles and the intended columns. See
+[actual evidence, fixture repairs and limits](qa/file-list-layout-2026-10-14.json). Full physical appearance/scrolling/accessibility and
+signed acceptance remain open; no Core behavior changes in this batch.

diff --git a/docs/DIALOG-COVERAGE.md b/docs/DIALOG-COVERAGE.md
@@ -31,7 +31,7 @@ This generated table links explicit implementation/parity reviews and existing Q
 | `src/Resources/TortoiseMergeENG.rc` / `IDD_REGEXFILTER` | partial-native-replacement | 0/8 mapped; 8 pending | [MERGE-REGEX-FILTERS-PARITY](MERGE-REGEX-FILTERS-PARITY.md); 1 QA records |
 | `src/Resources/TortoiseProcENG.rc` / `IDD_ABOUT` | partial-native-replacement | 0/9 mapped; 9 pending | No recorded family document; 0 QA records |
 | `src/Resources/TortoiseProcENG.rc` / `IDD_ADD` | native-partial | 6/6 mapped; 0 pending | [ADD-PARITY](ADD-PARITY.md); 15 QA records |
-| `src/Resources/TortoiseProcENG.rc` / `IDD_CHANGEDFILES` | partial-native-replacement | 0/15 mapped; 15 pending | [STATUS-PARITY](STATUS-PARITY.md), [UI-PARITY](UI-PARITY.md); 13 QA records |
+| `src/Resources/TortoiseProcENG.rc` / `IDD_CHANGEDFILES` | partial-native-replacement | 0/15 mapped; 15 pending | [STATUS-PARITY](STATUS-PARITY.md), [UI-PARITY](UI-PARITY.md); 14 QA records |
 | `src/Resources/TortoiseProcENG.rc` / `IDD_LOGMESSAGE` | partial-workflow-replacement | 2/27 mapped; 25 pending | [LOG-PARITY](LOG-PARITY.md); 60 QA records |
 | `src/Resources/TortoiseProcENG.rc` / `IDD_COMMITDLG` | partial-workflow-replacement | 44/45 mapped; 1 pending | [COMMIT-PARITY](COMMIT-PARITY.md), [UI-PARITY](UI-PARITY.md); 46 QA records |
 | `src/Resources/TortoiseProcENG.rc` / `IDD_PROMPT` | pending-review | 0/5 mapped; 5 pending | No recorded family document; 0 QA records |
